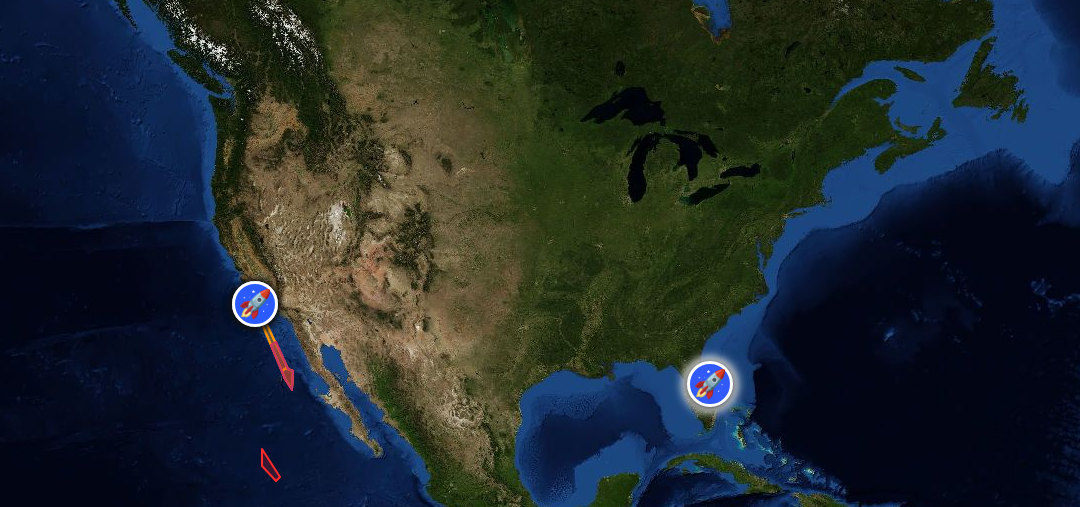
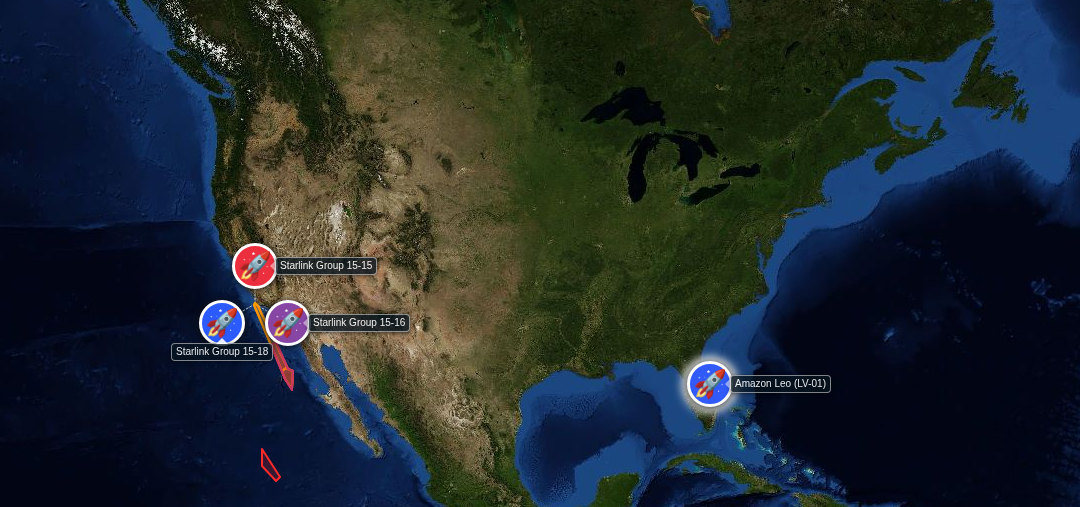
Show co-located US launches and keep widget packages static

Changed region(s): [[0.1528, 0.4734, 0.3972, 0.7101], [0.6722, 0.7396, 0.7639, 0.7988]]

diff --git a/widget/render.html b/widget/render.html
@@ -12,6 +12,8 @@
     #map { position: relative; width: 100vw; height: 100vh; overflow: hidden; }
     .rocket-marker { display:flex; align-items:center; justify-content:center; width:46px;height:46px;border:3px solid white;border-radius:50%; box-shadow:0 1px 8px #111; font-size:27px; }
     .twilight-glow { filter:drop-shadow(0 0 5px #fff) drop-shadow(0 0 3px #fff); }
+    .launch-label { background:rgba(7,20,30,.86); border:1px solid rgba(255,255,255,.55); border-radius:4px; box-shadow:0 1px 4px rgba(0,0,0,.6); color:#fff; font-size:10px; line-height:1.2; max-width:150px; padding:2px 4px; white-space:nowrap; }
+    .launch-label.leaflet-tooltip-right:before { border-right-color:rgba(255,255,255,.55); }
   </style>
 </head>
 <body>
@@ -110,7 +112,21 @@
         return rows.filter(r=>r.some(Boolean)).map(r=>Object.fromEntries(headers.map((h,i)=>[h,r[i]||''])));
       }
 
+      function launchDisplayName(launch) {
+        const raw=String(launch.name||launch.mission||launch['Official Payload Name']||launch.vehicle||'').trim();
+        const separator=raw.indexOf('|');
+        return isUnitedStates && separator >= 0 ? raw.slice(separator+1).trim() : raw;
+      }
+      function launchMarkerOffsets(count) {
+        if (count <= 1) return [[0,0]];
+        const radius=38;
+        return Array.from({length:count},(_,index)=>{
+          const angle=-Math.PI/2+(index*2*Math.PI/count);
+          return [Math.cos(angle)*radius,Math.sin(angle)*radius];
+        });
+      }
       function drawLaunches(launches) {
+        const visible=[];
         for (const launch of launches) {
           const pad=launch.pad || {};
           const location=pad.location || {};
@@ -123,9 +139,40 @@
           if(!Number.isFinite(ts)||ts<windowStart||ts>windowEnd) continue;
           const color=past?'#22c55e':colorByTime(ts);
           const glow=!past&&launchTwilight(ts,lat,lon);
-          const icon=L.divIcon({ className:'', html:`<div class="rocket-marker${glow?' twilight-glow':''}" style="background:${color}">🚀</div>`, iconSize:[46,46], iconAnchor:[23,23] });
-          L.marker([lat,lon],{icon,interactive:false}).addTo(map);
+          visible.push({launch,lat,lon,color,glow});
         }
+        const groups=new Map();
+        visible.forEach(item=>{
+          const key=`${item.lat.toFixed(6)},${item.lon.toFixed(6)}`;
+          if(!groups.has(key)) groups.set(key,[]);
+          groups.get(key).push(item);
+        });
+        const addLaunchMarker=(item,markerLatLng,offset)=>{
+          if(isUnitedStates && (offset[0] || offset[1])) {
+            L.polyline([[item.lat,item.lon],markerLatLng],{color:'#fff',weight:1,opacity:.75,dashArray:'2,2',interactive:false}).addTo(map);
+          }
+          const icon=L.divIcon({ className:'', html:`<div class="rocket-marker${item.glow?' twilight-glow':''}" style="background:${item.color}">🚀</div>`, iconSize:[46,46], iconAnchor:[23,23] });
+          const marker=L.marker(markerLatLng,{icon,interactive:false}).addTo(map);
+          if(isUnitedStates) {
+            const labelDirection=offset[0] < 0 ? 'bottom' : 'right';
+            const labelOffset=offset[0] < 0 ? [0,14] : [14,0];
+            marker.bindTooltip(launchDisplayName(item.launch),{permanent:true,direction:labelDirection,offset:labelOffset,className:'launch-label'});
+          }
+        };
+        if(!isUnitedStates) {
+          visible.forEach(item=>addLaunchMarker(item,[item.lat,item.lon],[0,0]));
+          return;
+        }
+        groups.forEach(group=>{
+          const anchor=map.latLngToLayerPoint([group[0].lat,group[0].lon]);
+          const offsets=launchMarkerOffsets(group.length);
+          group.forEach((item,index)=>{
+            const offset=offsets[index];
+            const markerPoint=anchor.add(L.point(offset[0],offset[1]));
+            const markerLatLng=map.layerPointToLatLng(markerPoint);
+            addLaunchMarker(item,markerLatLng,offset);
+          });
+        });
       }
       async function loadLaunches() {
         try {
@@ -137,10 +184,19 @@
         } catch (error) {
           console.warn('Space Devs launches unavailable; using local schedule',error);
           try {
-            const response=await fetch('../upcoming_launches.csv?widget='+Date.now(),{cache:'no-store'});
+            const response=await fetch('../upcoming_launches.json?widget='+Date.now(),{cache:'no-store'});
             if(!response.ok) throw Error(response.status);
-            launchRecords=parseCsv(await response.text());
-          } catch (fallbackError) { console.warn('Local launch schedule unavailable',fallbackError); }
+            const snapshot=await response.json();
+            if(!Array.isArray(snapshot.results)) throw Error('upcoming launch snapshot has no results');
+            launchRecords=snapshot.results;
+          } catch (snapshotError) {
+            console.warn('Local launch snapshot unavailable; using CSV fallback',snapshotError);
+            try {
+              const response=await fetch('../upcoming_launches.csv?widget='+Date.now(),{cache:'no-store'});
+              if(!response.ok) throw Error(response.status);
+              launchRecords=parseCsv(await response.text());
+            } catch (fallbackError) { console.warn('Local launch schedule unavailable',fallbackError); }
+          }
         } finally { ready.launches=true; finishIfReady(); }
       }
       loadLaunches();

diff --git a/scripts/generate_widget_image.py b/scripts/generate_widget_image.py
@@ -2,7 +2,9 @@
 """Render China and US Lower 48 rocket widget images and ScriptWidget packages.
 
 Inputs: widget/render.html, widget scripts, and local launch/NOTAM/MSI/KML data.
-Outputs: China assets plus US 3x small/medium/large JPEGs and .swt packages.
+Outputs: China assets plus US 3x small/medium/large JPEGs and manifest.
+ScriptWidget `.swt` packages are static generic assets and are validated but
+never regenerated by the scheduled image refresh.
 """
 from __future__ import annotations
 
@@ -62,13 +64,6 @@ def render_page(browser, url: str, viewport: tuple[int, int], output: Path) -> I
     return Image.open(output).convert("RGB")
 
 
-def make_scriptwidget_package(size: str, output: Path) -> None:
-    source = ROOT / "widget" / f"scriptwidget-us-{size}"
-    with zipfile.ZipFile(output, "w", compression=zipfile.ZIP_DEFLATED) as package:
-        package.write(source / "widget.json", "widget.json")
-        package.write(source / "main.jsx", "main.jsx")
-
-
 def main() -> None:
     resampling = getattr(getattr(Image, "Resampling", Image), "LANCZOS")
     server = ThreadingHTTPServer(("127.0.0.1", 0), QuietHandler)
@@ -111,8 +106,6 @@ def main() -> None:
             save_jpeg(us_medium, US_MEDIUM)
             us_large = render_page(browser, origin + "?region=us&size=large", US_LARGE_SIZE, scratch_us_large)
             save_jpeg(us_large, US_LARGE)
-            for size, output in US_PACKAGES.items():
-                make_scriptwidget_package(size, output)
             browser.close()
     finally:
         server.shutdown()
@@ -161,7 +154,7 @@ def main() -> None:
         with zipfile.ZipFile(path) as package:
             if set(package.namelist()) != {"widget.json", "main.jsx"}:
                 raise RuntimeError(f"Unexpected ScriptWidget package contents at {path}: {package.namelist()}")
-        print(f"Generated {path.name}: {path.stat().st_size} bytes")
+        print(f"Validated static {path.name}: {path.stat().st_size} bytes")
 
 
 if __name__ == "__main__":

diff --git a/test_widget_refresh_policy.py b/test_widget_refresh_policy.py
@@ -1,0 +1,35 @@
+#!/usr/bin/env python3
+from pathlib import Path
+import zipfile
+
+ROOT = Path(__file__).resolve().parent
+render = (ROOT / "widget" / "render.html").read_text(encoding="utf-8")
+generator = (ROOT / "scripts" / "generate_widget_image.py").read_text(encoding="utf-8")
+workflow = (ROOT / ".github" / "workflows" / "widget_map.yml").read_text(encoding="utf-8")
+
+assert "launchMarkerOffsets" in render
+assert "permanent:true" in render
+assert "if(!isUnitedStates)" in render
+assert "../upcoming_launches.json?widget=" in render
+assert "../upcoming_launches.csv?widget=" in render
+assert "Starlink Group 15-15" not in render  # source data remains dynamic
+assert "make_scriptwidget_package" not in generator
+assert 'ZipFile(output, "w"' not in generator
+assert ".swt" not in workflow.split("file_pattern:", 1)[1].splitlines()[0]
+
+expected_images = {
+    "us-widget-small.jpg": (507, 507),
+    "us-widget-medium.jpg": (1080, 507),
+    "us-widget-large.jpg": (1092, 1146),
+}
+from PIL import Image
+for name, size in expected_images.items():
+    with Image.open(ROOT / "widget" / name) as image:
+        assert image.size == size, (name, image.size)
+
+for name in ("small", "medium", "large"):
+    package = ROOT / "widget" / f"us-rocket-map-{name}.swt"
+    with zipfile.ZipFile(package) as archive:
+        assert set(archive.namelist()) == {"widget.json", "main.jsx"}
+
+print("test_widget_refresh_policy.py passed")

diff --git a/SESSION-STATE.md b/SESSION-STATE.md
@@ -2,6 +2,10 @@
 
 ## WAL
 
+- 2026-10-22 audit/planned: Audit found the US widget image is not missing `Falcon 9 Block 5 | Starlink Group 15-15` at the data layer. The current Space Devs snapshot and live API both contain it at Vandenberg SLC-4E (34.632, -120.611, 2026-10-22 22:40 UTC), alongside Starlink 15-16 and 15-18 at the same coordinates; the rendered image therefore collapses the three launch markers into one visible top marker. The second blue marker is the separate Florida SLC-41 launch. Planned scoped fix: in the US widget only, fan out co-located upcoming launches with short connector lines and concise mission labels so each record, including Starlink 15-15, is visible; preserve exact site coordinates in data and leave China framing unchanged. Also make `.swt` packages static: remove package creation from the scheduled image generator and remove `.swt` files from the workflow auto-commit pattern; keep validating that the existing generic packages remain present and structurally valid. Scope: `widget/render.html`, `scripts/generate_widget_image.py`, `.github/workflows/widget_map.yml`, regenerated US images/manifest, focused tests, and WAL; do not modify launch/NOTAM/MSI datasets or unrelated site/UI files. Risk: fan-out is a visualization offset, not a launch-coordinate change; labels may be small at widget scale. Next: implement, regenerate, verify all US image sizes and package mtimes/content stability, publish and inspect live assets.
+
+- 2026-10-22 audit amendment: A regeneration attempt exposed a second resilience gap: when the live Space Devs request fails, `widget/render.html` currently falls back directly to the stale `upcoming_launches.csv` (which contains only an old September manual record), so current launches such as Starlink 15-15 disappear from the generated image. Before further edits, add the tracked `upcoming_launches.json` snapshot as the first local fallback, then retain CSV as the final fallback. This is still within the widget data-display scope; no dataset rewrite is planned.
+
 - 2026-10-22 result: Published `9fa3dd9`; Pages deployment `39734185371` completed successfully. The exact Mickey orbit link now appears in both click-detail paths: the Leaflet launch popup and Cesium launch description for `Long March 6A | Unknown Payload` only. Live Pages HTML returned 200 and contains the exact URL and Chinese link text; the target site returned HTTP 200. Focused `test_index_launch_orbit_detail_link.js` passed, including positive mission gating, negative non-target gating, safe new-tab attributes, and both 2D/3D call sites. Full frontend sweep: 22 passed / 9 existing failures, with no new failure category. Scope remained `index.html`, focused test, and WAL; NOTAM/MSI data, widgets, and other launch details were untouched. Risk: the external Mickey site remains independently maintained. Next: no further action unless the target mission name or external URL changes.
 
 - 2026-10-22 audit/planned: Goal: add one mission-specific hyperlink to the click details for `Long March 6A | Unknown Payload`: visible text `火箭具体轨道详情与各地轨迹预测请参考 Mickey 网站`, target `https://exoplanet5.github.io/CZ-6A/`. Render it in both the Leaflet launch popup and the Cesium launch description because they are the two click-detail paths; all other launches must remain unchanged. Scope: `index.html`, a focused static regression test, and WAL only; no NOTAM/MSI datasets, widget files, page copy, matching rules, or launch-feed data changes. Stage precheck: website detail presentation only; sample rules, variable definitions, model specs, and academic outputs remain unchanged. Risk: external link availability is outside this repository; use a new-tab `https` link with `noopener noreferrer`. Next: implement, test positive/negative mission gating, publish and verify the live HTML/deployment.
